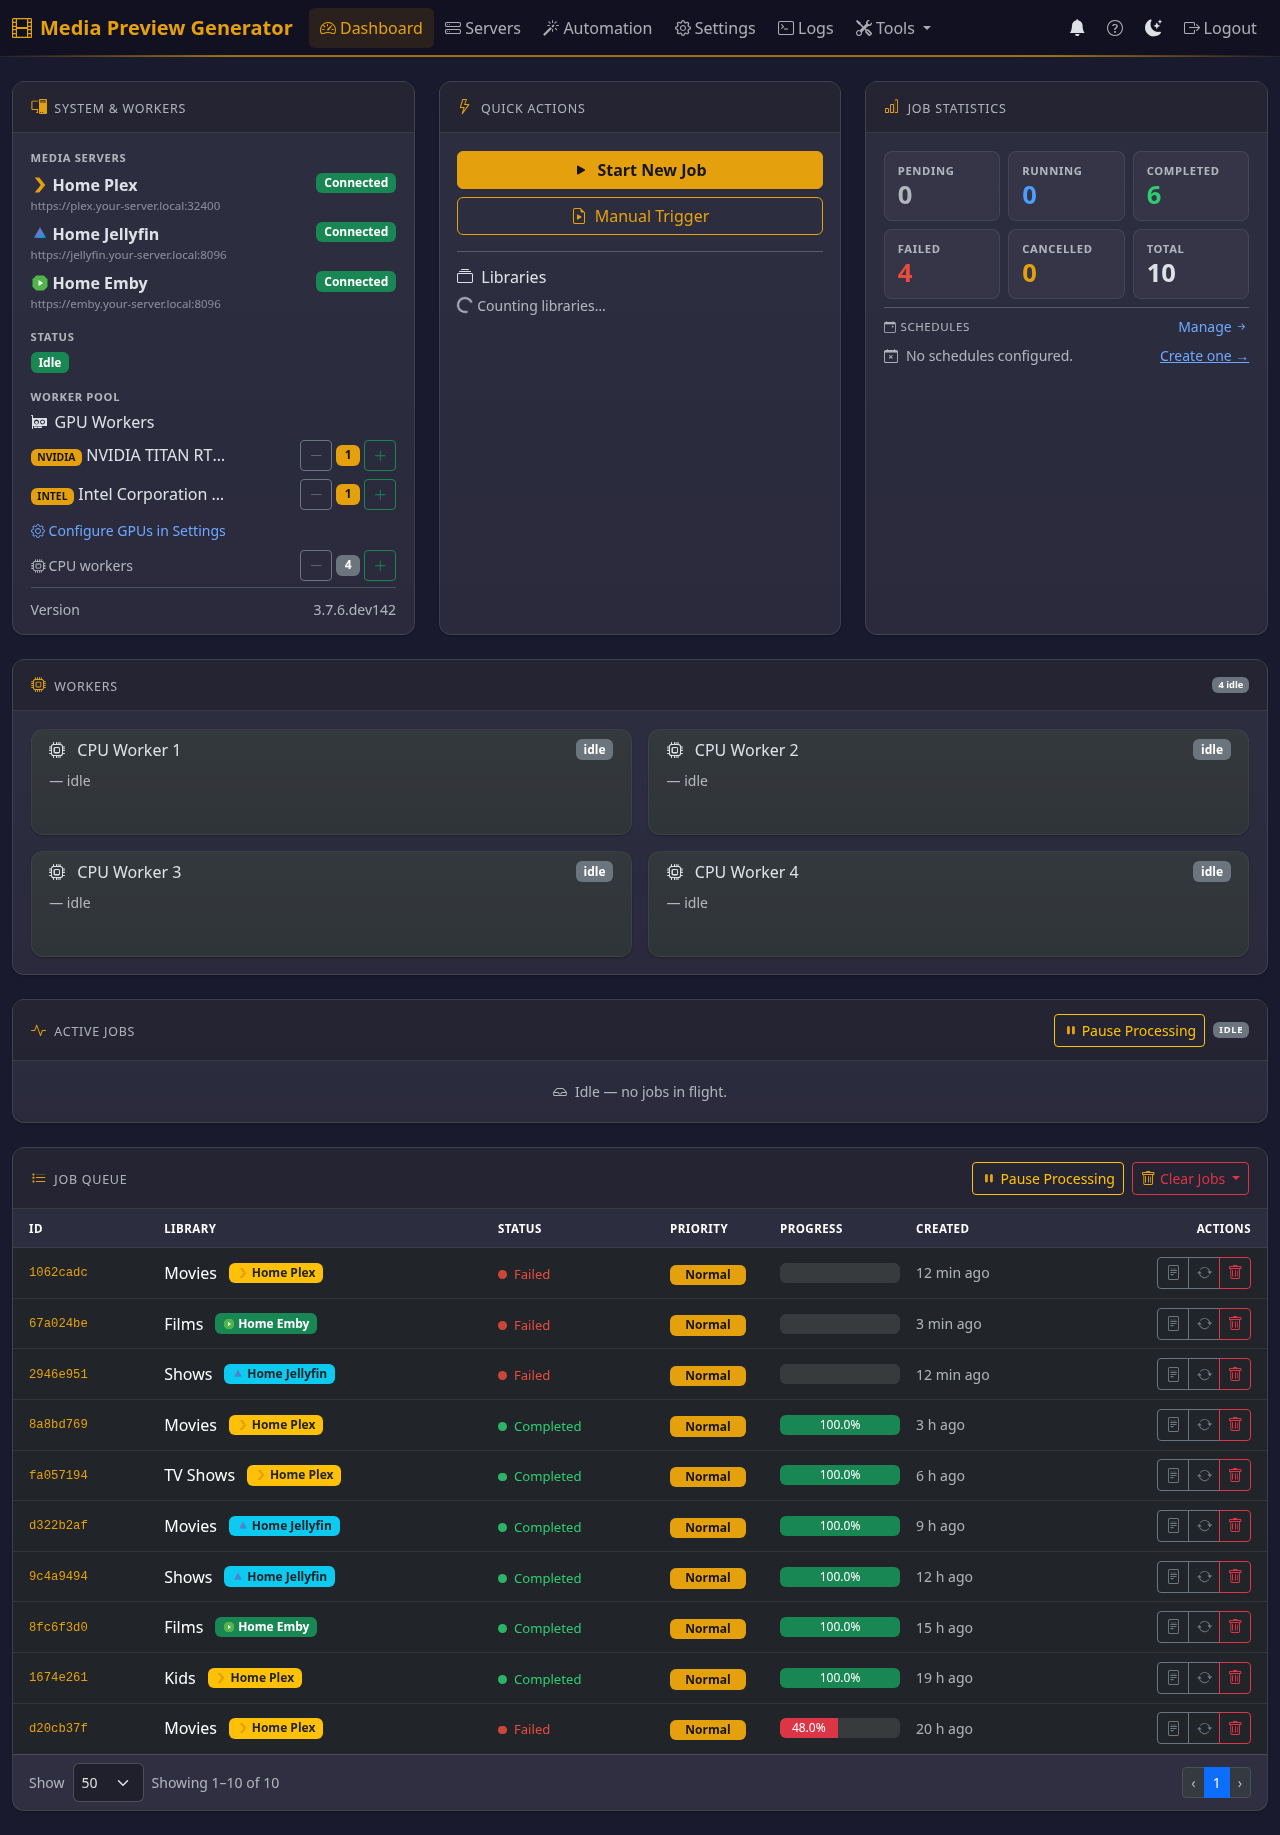
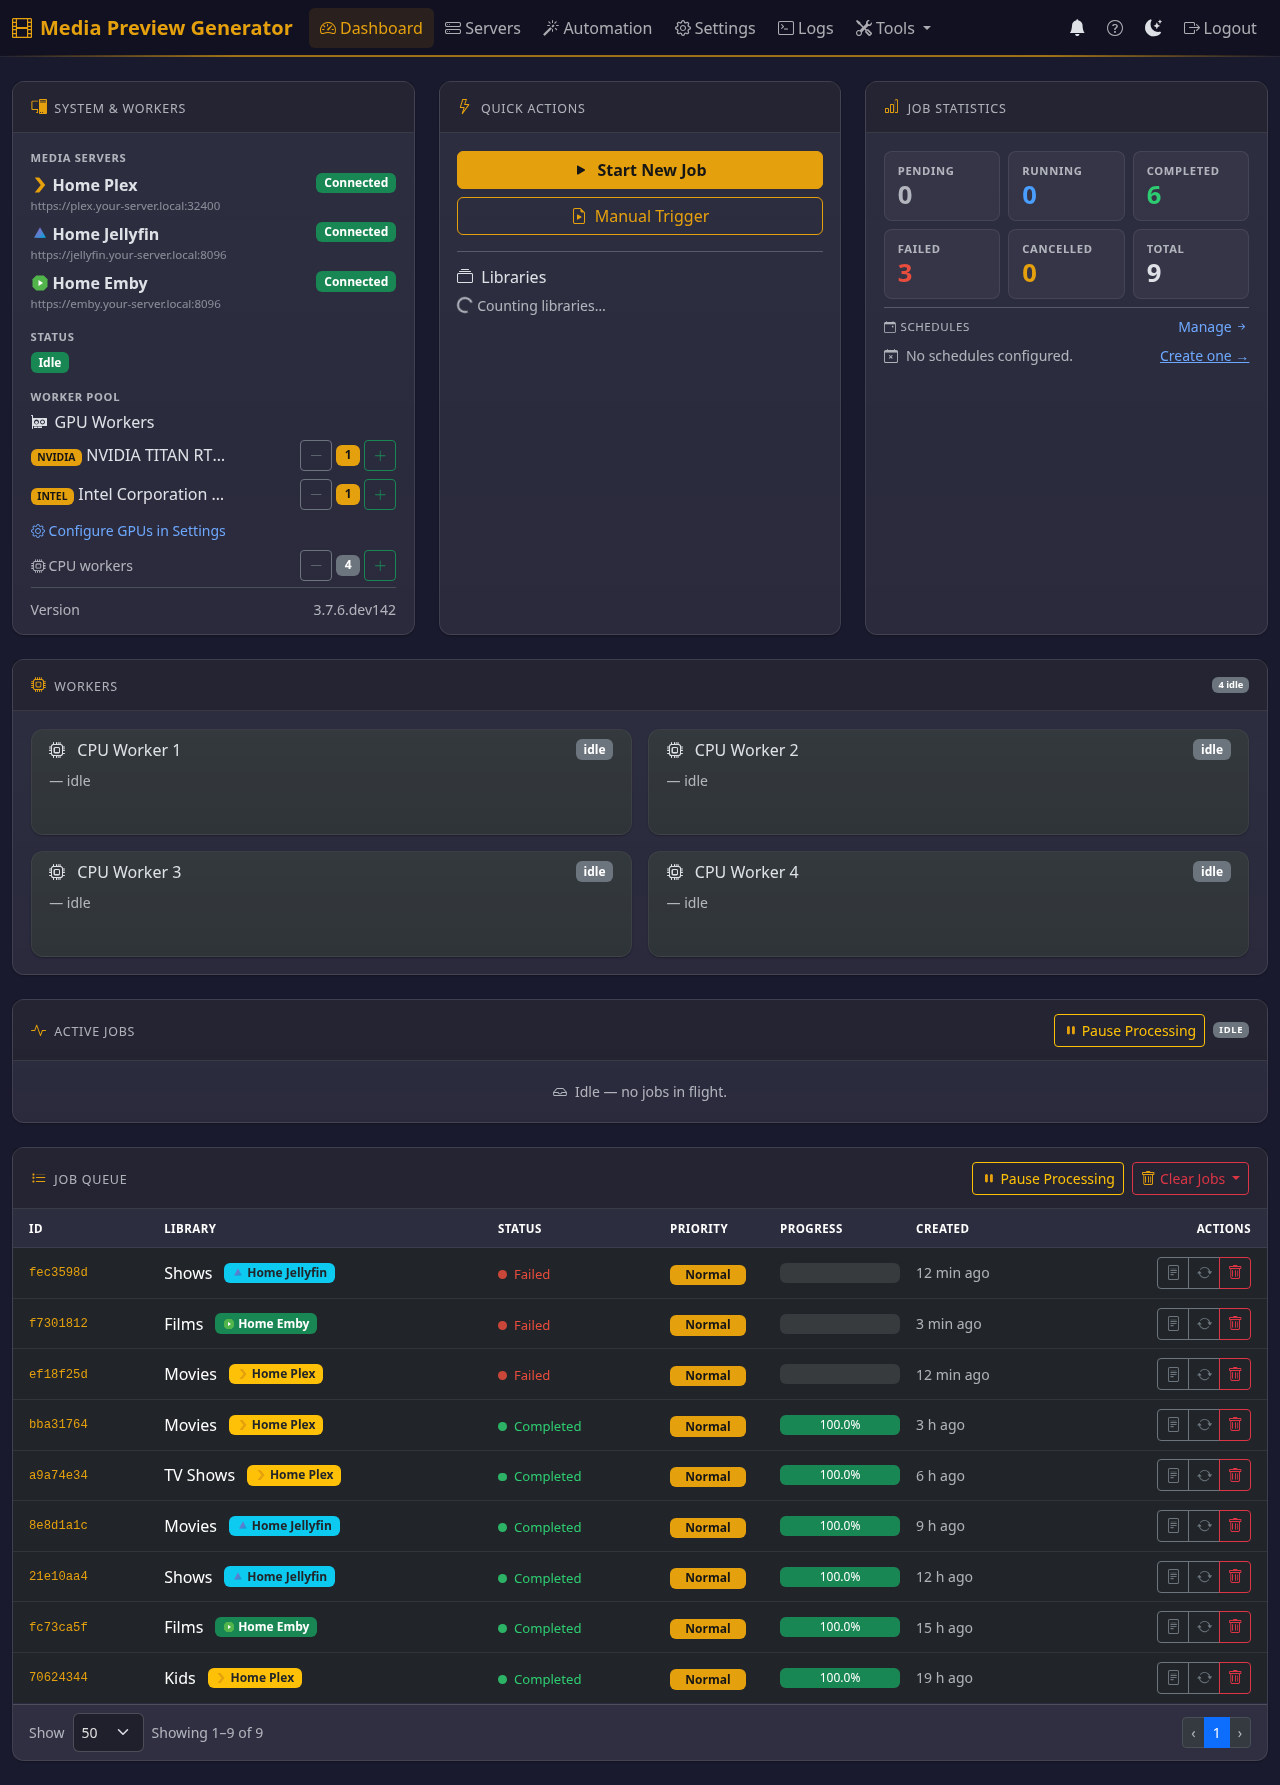
docs(readme): single-row screenshot gallery, drop Edit-Server shot, clip Settings
Tightens the Screenshots block per user feedback:

* Gallery is now a single-row HTML table of 4 tiles — one <tr> with
  380px-wide <img>s side-by-side. GitHub wraps wide tables in a
  horizontally-scrollable container so narrow viewports scroll native
  left/right while desktop readers see every tile at once. Each tile
  stays clickable (<a href> wrap) to open the full-size PNG.
* Dropped the per-server Edit modal (``servers-edit.png``) — the
  Servers page already shows the three vendors at a glance, so the
  modal shot was redundant.
* Settings shot is clipped to the Processing Options card only
  (``#section-processing`` element-level screenshot, 830x1164 px)
  instead of the 4000px full-page render that made the gallery
  unbalanced.
* Fixture no longer seeds a failed job — Job Statistics card on the
  Dashboard now reads 0 Failed, which looks cleaner for a marketing
  shot. Still 9 plausible rows (6 completed + 2 running + 1 pending).

Settings capture waits for the real GPU-detection state (spinner
hidden, list populated) and runs with ``animations='disabled'`` so
the PNG is deterministic across runs — verified byte-identical across
back-to-back invocations.

diff --git a/tests/e2e/snapshots/regen_readme.py b/tests/e2e/snapshots/regen_readme.py
@@ -8,11 +8,10 @@ Boots the app in a temp config dir that has been pre-seeded with
 fake Plex / Jellyfin / Emby servers (see ``readme_fixture.py``) and a
 handful of plausible job rows, then drives Playwright to capture:
 
-    /               -> home.png
-    /servers        -> servers.png
-    /servers + edit -> servers-edit.png  (Jellyfin card, Edit button)
-    /settings       -> settings.png
-    /automation     -> automation.png    (Triggers tab default)
+    /               -> home.png        (full page)
+    /servers        -> servers.png     (full page)
+    /settings       -> settings.png    (Processing Options card only)
+    /automation     -> automation.png  (Triggers tab default)
 
 All captures are dark-mode + desktop-only — this script targets the
 README exclusively. For the visual-regression matrix (light + dark ×
@@ -59,10 +58,13 @@ from readme_fixture import FAKE_HOST, FAKE_SERVERS, seed_jobs, write_settings  #
 
 PLACEHOLDER_ORIGIN = f"https://{FAKE_HOST}:8080"
 
+# Full-page captures. Settings is handled separately below because we
+# crop to the Processing Options card rather than capturing the whole
+# page (the full Settings page is ~4000px tall and unsuitable for a
+# README gallery tile).
 SURFACES: list[tuple[str, str]] = [
     ("/", "home"),
     ("/servers", "servers"),
-    ("/settings", "settings"),
     ("/automation", "automation"),
 ]
 
@@ -222,32 +224,31 @@ def _capture_surface(page: Page, app_url: str, path: str, out_path: Path) -> Non
     print(f"[regen_readme] wrote {out_path.name}", file=sys.stderr)
 
 
-def _capture_servers_edit(page: Page, app_url: str, out_path: Path) -> None:
-    """Open the Servers page, click Edit on the Jellyfin card, capture.
+def _capture_settings_processing(page: Page, app_url: str, out_path: Path) -> None:
+    """Navigate to /settings and clip to the Processing Options card.
 
-    Uses a taller viewport (1280×1100) so the full edit modal fits
-    without the Cancel/Save row being clipped by the bottom of the
-    window. full_page=True doesn't fix the clip on its own because the
-    modal's body is height-capped and scrolls inside — so growing the
-    viewport is the simplest fix.
+    The full Settings page is ~4000px tall (Processing / Logging / Auth /
+    Backups / About) and dwarfs the other README tiles. Clipping to the
+    ``#section-processing`` element (the GPU + CPU workers + thumbnail
+    + HDR + smart-caching card) yields a tile that sits comfortably next
+    to the Dashboard / Servers / Automation shots.
+
+    Uses Playwright's element-level screenshot instead of CSS crop so
+    the resulting PNG is exactly the card's bounding box — no empty
+    gutters, no guess-the-viewport math.
     """
-    page.set_viewport_size({"width": 1280, "height": 1100})
-    page.goto(f"{app_url}/servers", wait_until="domcontentloaded", timeout=15_000)
-    page.wait_for_timeout(1200)
-
-    # Click the Edit button on the Jellyfin card. Matches servers.js:
-    # ``$$('.edit-server-btn').forEach(btn => ... dataset.id)``.
-    jellyfin_id = "jellyfin-home"
-    selector = f'.edit-server-btn[data-id="{jellyfin_id}"]'
-    page.wait_for_selector(selector, state="visible", timeout=10_000)
-    page.click(selector)
-
-    # Wait for the modal. The template uses id=editServerModal.
-    page.wait_for_selector("#editServerModal.show", state="visible", timeout=5_000)
-    page.wait_for_timeout(1000)
-    page.screenshot(path=str(out_path), full_page=True)
-    # Restore the default viewport for any later captures that might run.
-    page.set_viewport_size({"width": 1280, "height": 720})
+    page.goto(f"{app_url}/settings", wait_until="domcontentloaded", timeout=15_000)
+    # Wait for the GPU detection spinner to be replaced by real GPU
+    # rows, otherwise the card captures mid-spin and the PNG is
+    # non-deterministic across runs.
+    page.wait_for_selector("#gpuDetecting", state="hidden", timeout=10_000)
+    page.wait_for_function("() => document.getElementById('gpuConfigList').children.length > 0", timeout=5_000)
+    el = page.locator("#section-processing")
+    el.scroll_into_view_if_needed()
+    page.wait_for_timeout(500)
+    # animations='disabled' pauses any still-running CSS transitions
+    # (badge pulses, collapse chevrons) so the clip is a clean still.
+    el.screenshot(path=str(out_path), animations="disabled")
     print(f"[regen_readme] wrote {out_path.name}", file=sys.stderr)
 
 
@@ -294,7 +295,7 @@ def regenerate(out_dir: Path) -> int:
                 for path, name in SURFACES:
                     _capture_surface(page, app_url, path, out_dir / f"{name}.png")
 
-                _capture_servers_edit(page, app_url, out_dir / "servers-edit.png")
+                _capture_settings_processing(page, app_url, out_dir / "settings.png")
 
                 ctx.close()
             finally:

diff --git a/tests/e2e/snapshots/readme_fixture.py b/tests/e2e/snapshots/readme_fixture.py
@@ -258,31 +258,6 @@ def seed_jobs(config_dir: str | Path) -> int:
             )
         )
 
-        # 1 failed with a representative (non-leaky) error.
-        failed_created = now - timedelta(hours=20)
-        rows.append(
-            Job(
-                id=str(uuid.uuid4()),
-                status=JobStatus.FAILED,
-                created_at=_iso(failed_created),
-                started_at=_iso(failed_created + timedelta(seconds=5)),
-                completed_at=_iso(failed_created + timedelta(minutes=2)),
-                library_id="lib-f",
-                library_name="Movies",
-                server_id="plex-home",
-                server_name="Home Plex",
-                server_type="plex",
-                progress=JobProgress(
-                    percent=48.0,
-                    total_items=842,
-                    processed_items=403,
-                    outcome={"created": 401, "skipped": 1, "failed": 1},
-                ),
-                error="FFmpeg exited with status 1 on 1 file (see job log for details).",
-                config={"trigger": "manual", "path_count": 842},
-            )
-        )
-
         for row in rows:
             storage.upsert(row)
 

diff --git a/README.md b/README.md
@@ -81,15 +81,24 @@ Generates video preview thumbnails for **Plex, Emby, and Jellyfin**. These are t
 
 ## Screenshots
 
-| Dashboard | Servers |
-|:---------:|:-------:|
-| [![Dashboard showing connected Plex / Jellyfin / Emby servers, GPU workers, and job statistics](docs/images/home.png)](docs/images/home.png) | [![Servers page with one card per Plex / Jellyfin / Emby server, each showing connection status and library count](docs/images/servers.png)](docs/images/servers.png) |
+<div align="center">
 
-| Edit Server (Jellyfin) | Settings | Automation |
-|:----------------------:|:--------:|:----------:|
-| [![Edit Server modal for a Jellyfin server, showing the plain-English Stop-vendor-extraction and Instant-trickplay-plugin cards](docs/images/servers-edit.png)](docs/images/servers-edit.png) | [![Settings page with per-GPU configuration for an NVIDIA TITAN RTX and Intel UHD 770](docs/images/settings.png)](docs/images/settings.png) | [![Automation page Triggers tab listing trigger sources for Sonarr / Radarr / Tdarr / per-vendor manual imports](docs/images/automation.png)](docs/images/automation.png) |
+<table>
+  <tr>
+    <td><a href="docs/images/home.png"><img src="docs/images/home.png" alt="Dashboard showing connected Plex / Jellyfin / Emby servers, GPU workers, and job statistics" width="380"></a></td>
+    <td><a href="docs/images/servers.png"><img src="docs/images/servers.png" alt="Servers page with one card per Plex / Jellyfin / Emby server, each showing connection status and library count" width="380"></a></td>
+    <td><a href="docs/images/settings.png"><img src="docs/images/settings.png" alt="Settings — Processing Options card with per-GPU configuration for an NVIDIA TITAN RTX and Intel UHD 770, CPU workers, and thumbnail quality" width="380"></a></td>
+    <td><a href="docs/images/automation.png"><img src="docs/images/automation.png" alt="Automation page Triggers tab listing trigger sources for Sonarr / Radarr / Tdarr / per-vendor manual imports" width="380"></a></td>
+  </tr>
+  <tr>
+    <td align="center"><em>Dashboard</em></td>
+    <td align="center"><em>Servers</em></td>
+    <td align="center"><em>Settings</em></td>
+    <td align="center"><em>Automation</em></td>
+  </tr>
+</table>
 
-*Web UI: dashboard, multi-server management, per-server edit, processing settings, and trigger configuration.*
+</div>
 
 ---
 